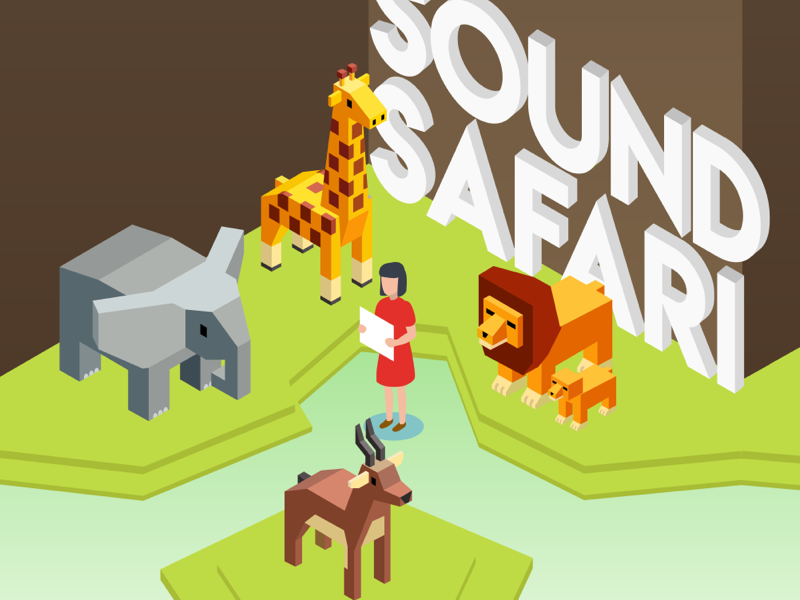
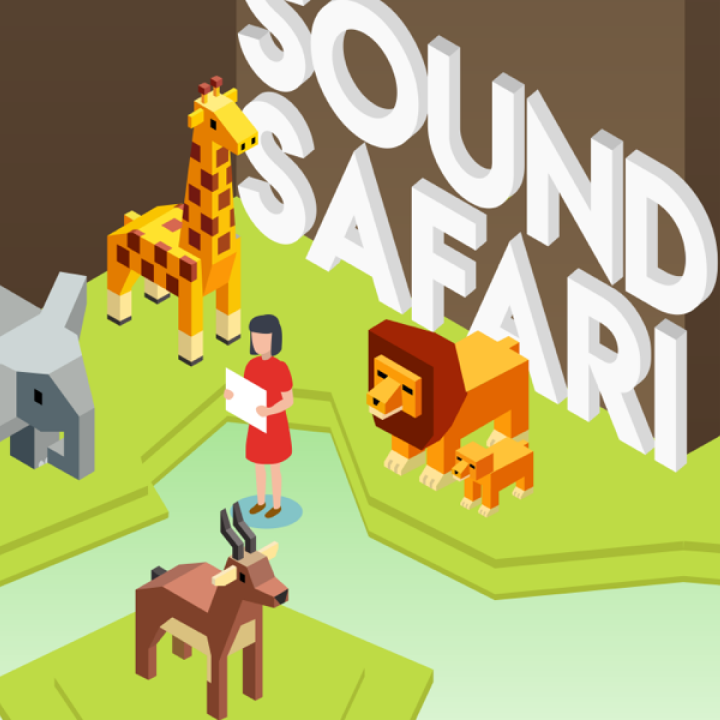
optimized for smaller screens

diff --git a/css/main.css b/css/main.css
@@ -114,25 +114,25 @@ margin-bottom: 20px;
 /* ------------------------------------------------------------- BOXES */
 
 .box1{
-    width: 448px;
-    height: 448px;
-    margin: 10px;
-    padding: 3vw;
+    width: 360px;
+    height: 376px;
+    margin: 8px;
+    padding: 2vw;
 }
 
 
 .box2{
-    height: 448px;
-    width: 916px;
+    height: 376px;
+    width: 743px;
     margin: 8px;
     padding-left: 4vw;
     padding-right: 4vw;
 }
 
 .box3{
-    height: 448px;
-    width: 448px;
-    margin: 10px;
+    height: 376px;
+    width: 360px;
+    margin: 8px;
 }
 
 .box3:hover{
@@ -156,9 +156,9 @@ margin-bottom: 20px;
 }
 
 .box4{
-    height: 249.5px;
-    width: 331px;
-    margin: 10px;
+    height: 270px;
+    width: 270px;
+    margin: 6px;
 }
 
 
@@ -167,8 +167,8 @@ margin-bottom: 20px;
     border-style: solid;
     border-color: #2d2d2d;
     display: block;
-    box-shadow: 8px 8px;
-    transform: translate(-8px,-8px);
+    box-shadow: 6px 6px;
+    transform: translate(-6px,-6px);
     transition: transform .1s ease-out;
 }
 
@@ -206,11 +206,11 @@ margin-bottom: 20px;
 
 
 
-/* --------------------------------------------------- IPAD */
+/* -------------------------------------------------@MEDIA MOBILE */
 @media only screen and (max-width: 1024px) {
     
     .box1 {
-        width: 916px;
+        width: 740px;
         height: 336px;
     }
     
@@ -219,8 +219,9 @@ margin-bottom: 20px;
     }
     
     .box4{
-        width:448px;
+        width:360px;
         height: 337px;
+        margin: 8px;
     }
 }
 
@@ -276,19 +277,19 @@ margin-bottom: 20px;
 .heading1{
     font-family: 'prompt', sans-serif;
     color: #dedede;
-    font-size: 72px;
+    font-size: 32px;
     font-weight: 300;
 }
 
 .heading2{
     font-family: 'prompt', sans-serif;
-    font-size: 36px;
+    font-size: 28px;
     font-weight: 500;
 }
 
 .heading3{
     font-family: prompt, sans-serif;
-    font-size: 24px;
+    font-size: 20px;
     font-weight: 500;
     line-height: 1.4;
 }
@@ -302,7 +303,7 @@ margin-bottom: 20px;
 
 .caption_new{
     font-family: proxima-nova, sans-serif;
-    font-size: 16px;
+    font-size: 14px;
     font-weight: 400;
     color: ##2d2d2d;
 }

diff --git a/index.html b/index.html
@@ -10,9 +10,6 @@
     <!-- font link here -->
     <link rel="stylesheet" href="https://use.typekit.net/vqf3gud.css">
     <link href="https://fonts.googleapis.com/css?family=Anton&display=swap" rel="stylesheet">
-    <link rel="preconnect" href="https://fonts.gstatic.com">
-    <link href="https://fonts.googleapis.com/css2?family=Prompt:ital,wght@0,100;0,200;0,300;0,400;0,500;0,600;0,700;1,200;1,300;1,400;1,500&display=swap" rel="stylesheet">
-
 
     
     
@@ -67,7 +64,7 @@
     
             <div class="d-flex align-content-center flex-wrap  box2 themedotted">
                 <p class="heading3">
-                    I am a Digital Product Designer, building employee experience tools at Microsoft. I have previously interned with admin console team at Google. I have academic expertise in interaction design & architecture. Keep scrolling to see my work :)
+                    I am Digital Product Designer, building employee experience tools at Microsoft. I have previously interned with admin console team at Google. I have academic expertise in interaction design & architecture. Keep scrolling to see my works :)
                 </p>     
             </div>
     </div>
@@ -220,7 +217,7 @@
                 <div class="sample">
                     <p class="heading2"> Let's Talk ( ^o^) <br></p>
                     <p class="heading4">
-                        Email : ar.somroy@gmail.com <br>
+                        Email : ar.somroy.com <br>
                         Phone : +91 9654150551<br>
                         LinkedIn : linkedin.com/in/roysom
                     </p>           
